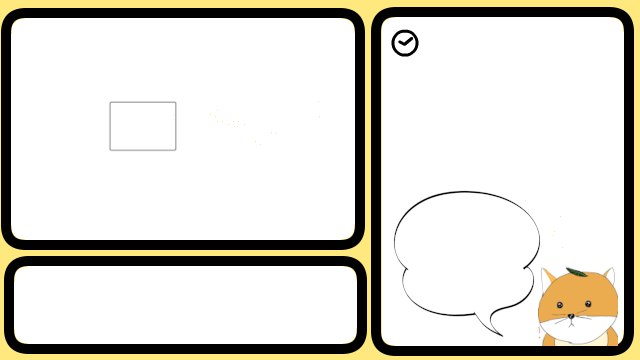
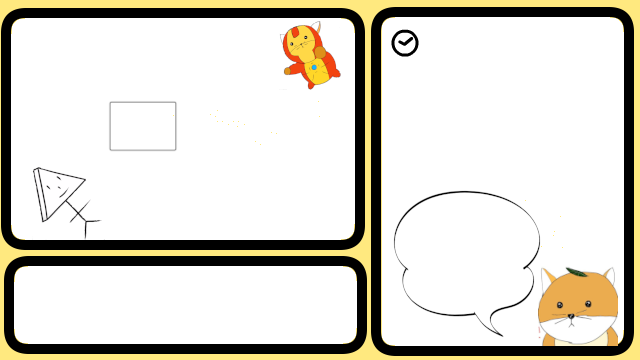
🚧 エキノ子とふんさん画像追加した

Changed region(s): [[0.4375, 0.0611, 0.5312, 0.2444], [0.0312, 0.4583, 0.1562, 0.6417]]

diff --git a/src/Score.ts b/src/Score.ts
@@ -23,10 +23,7 @@ export class Score {
   count(): void {
     this.point += Score.FIXED_POINT;
     g.game.vars.gameState.score = this.point;
-    const point = this.point.toString();
-    this.scoreLabel.right.x = 540;
-    this.scoreLabel.right.text = point;
-    this.scoreLabel.right.invalidate();
+    this.updateRightLabel(540);
   }
 
   deduct(): void {
@@ -34,8 +31,15 @@ export class Score {
     const deductPoint = 500;
     this.point -= deductPoint;
     g.game.vars.gameState.score = this.point;
-    const point = this.point.toString();
-    this.scoreLabel.right.text = point;
+    this.updateRightLabel();
+  }
+
+  private updateRightLabel(x?: number): void {
+    const pointStr = this.point.toString();
+    if (x != null) {
+      this.scoreLabel.right.x = x;
+    }
+    this.scoreLabel.right.text = pointStr;
     this.scoreLabel.right.invalidate();
   }
 
